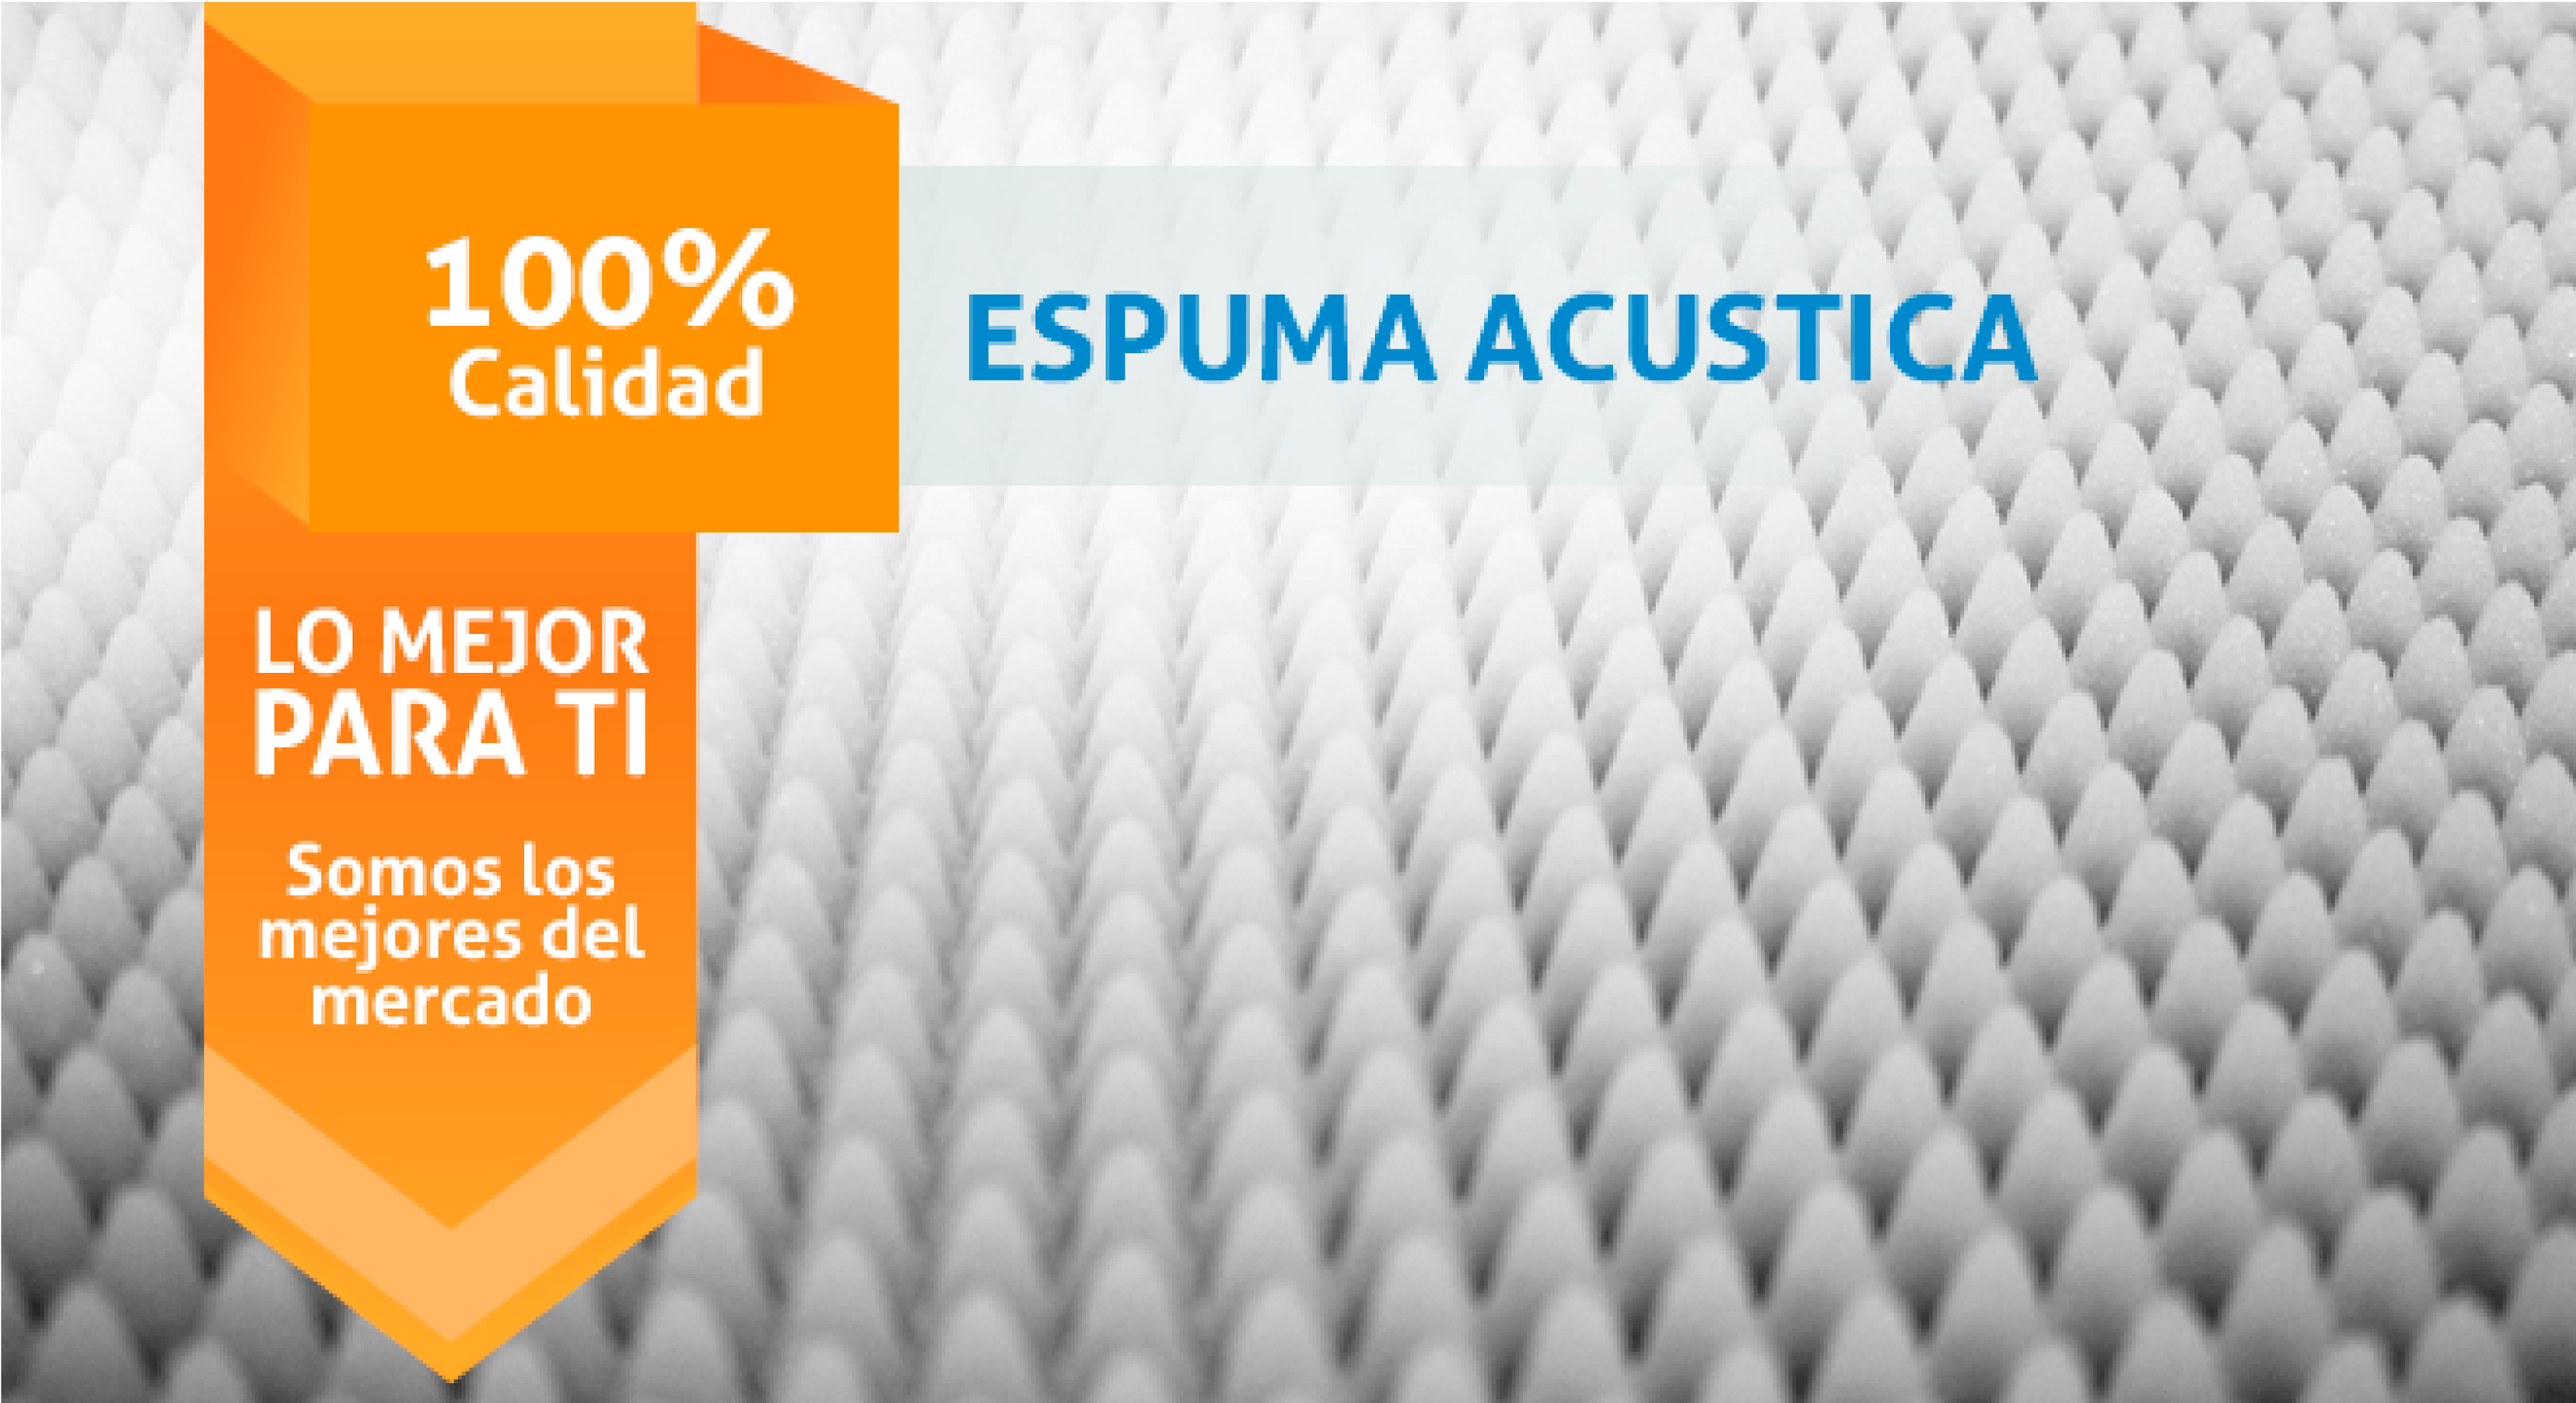
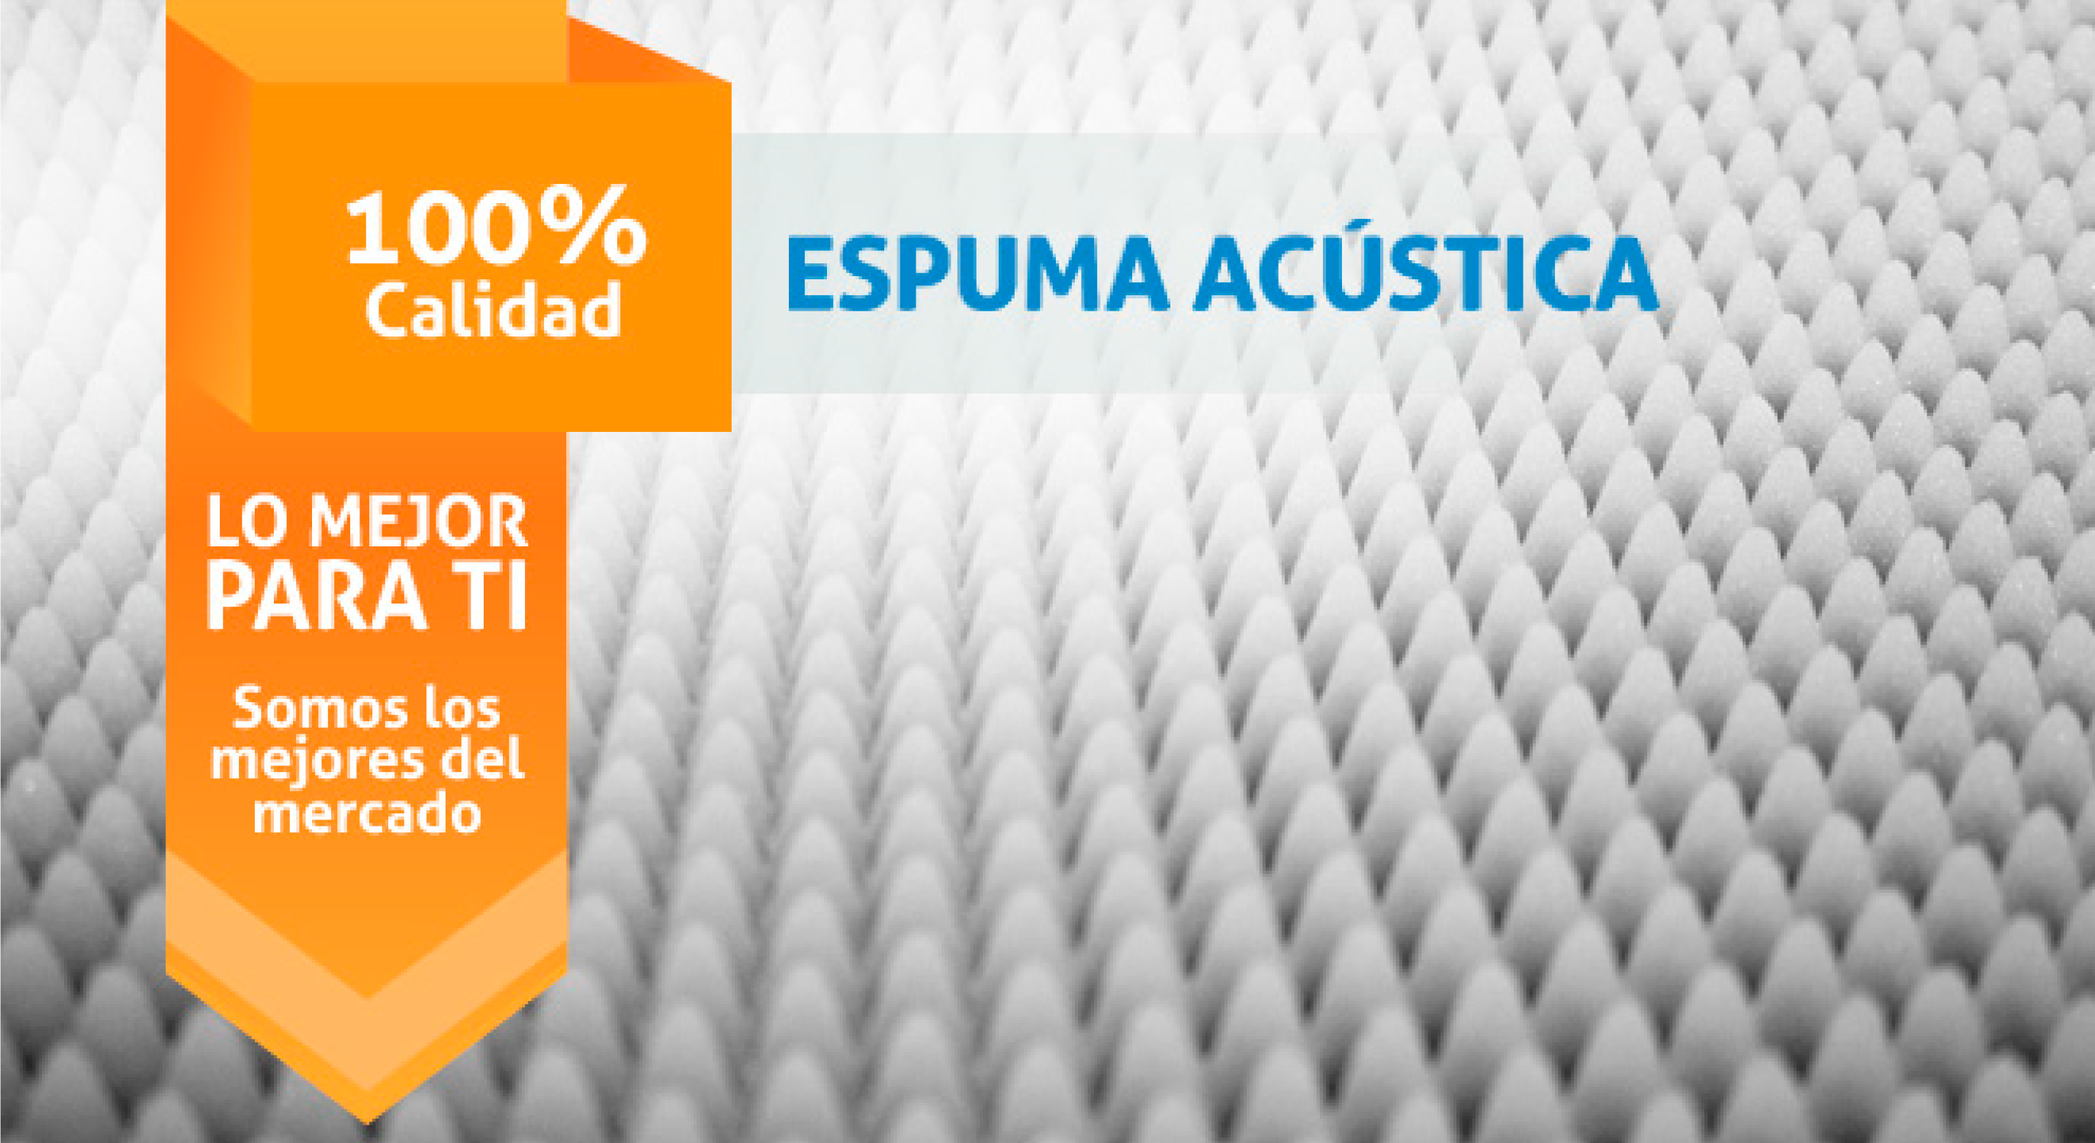
agregando derechos reservados y cambiando la imagen de acustica

diff --git a/index.html b/index.html
@@ -124,7 +124,7 @@
             <section>
                 <p>LINKS RÁPIDOS</p>
                 <span>Quiénes Somos</span>
-                <span>Nuestro Productos</span>
+                <span>Nuestros Productos</span>
                 <span>Contáctanos</span>
             </section>
             <section>
@@ -137,6 +137,8 @@
             </figure>
         </footer>
     </div>
-
+    <div class="derechos">
+        Espumlandia 2016 - Todos los derechos reservados.
+    </div>
 </body>
 </html>

diff --git a/css/style.css b/css/style.css
@@ -322,6 +322,14 @@ footer > figure > img{
     width: 100%;
 }
 
+.derechos{
+    background: #204b90;
+    color: white;
+    font-size: 10px;
+    padding: 8px;
+    text-align: center;
+}
+
 /* =========================================
 media de 1200px
 *=========================================*/
